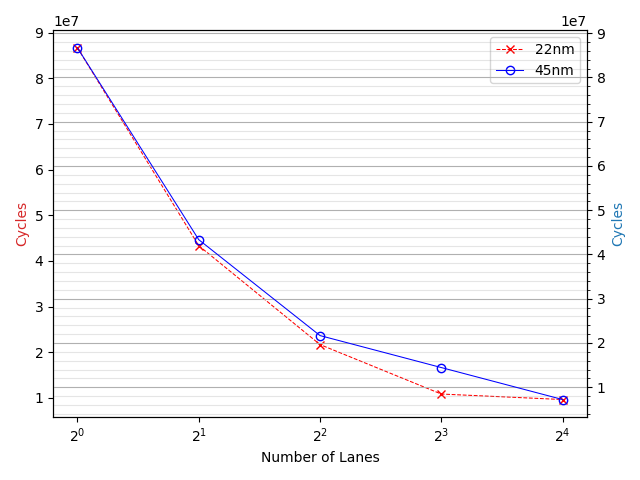
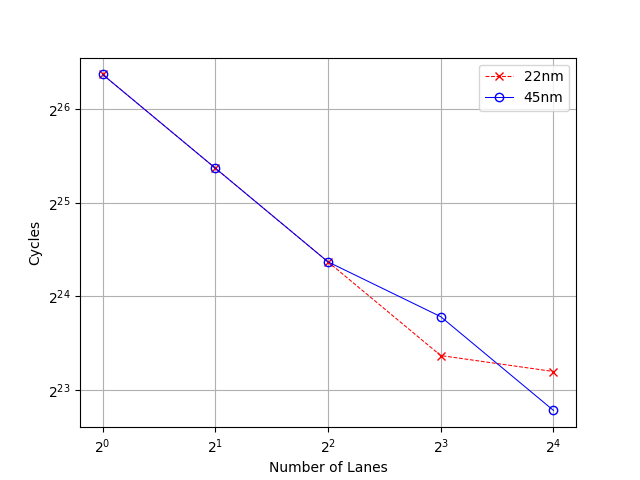
cycles and util graphs updated

Changed region(s): [[0.0312, 0.0312, 0.9688, 1.0]]

diff --git a/src/graphs.py b/src/graphs.py
@@ -1,5 +1,6 @@
 import os
 import re
+import matplotlib
 import matplotlib.pyplot as plt
 
 
@@ -64,32 +65,21 @@ ax1.legend(lns, labs, loc='best')
 
 fig.tight_layout()  # otherwise the right y-label is slightly clipped
 plt.savefig('tex_intermediate/fig/energy.png')
-
+plt.close()
 
 # Cycles
-fig, ax1 = plt.subplots()
-
-color = 'tab:red'
+plt.plot(num_lanes_list, tot_cycles[22], 'rx--', linewidth=0.75, fillstyle='none')
+plt.plot(num_lanes_list, tot_cycles[45], 'bo-', linewidth=0.75, fillstyle='none')
+plt.legend(['22nm', '45nm'])
+plt.ylabel('Cycles')
+plt.xlabel('Number of Lanes')
 plt.xscale('log',basex=2)
-ax1.set_xlabel('Number of Lanes')
-ax1.set_ylabel('Cycles', color=color)
-lns1 = ax1.plot(num_lanes_list, tot_cycles[22], 'rx--', linewidth=0.75, fillstyle='none', label='22nm')
-
-ax2 = ax1.twinx()  # instantiate a second axes that shares the same x-axis
-color = 'tab:blue'
-ax2.set_ylabel('Cycles', color=color)  # we already handled the x-label with ax1
-lns2 = ax2.plot(num_lanes_list, tot_cycles[45], 'bo-', linewidth=0.75, fillstyle='none', label='45nm')
-
+plt.yscale('log',basey=2)
 plt.grid()
 plt.minorticks_on()
 plt.grid(visible=True, which='minor', color='#999999', linestyle='-', alpha=0.25)
-
-lns = lns1+lns2
-labs = [l.get_label() for l in lns]
-ax1.legend(lns, labs, loc='best')
-
-fig.tight_layout()  # otherwise the right y-label is slightly clipped
 plt.savefig('tex_intermediate/fig/cycles.png')
+plt.close()
 
 
 # Area
@@ -116,28 +106,19 @@ ax1.legend(lns, labs, loc='upper left')
 
 fig.tight_layout()  # otherwise the right y-label is slightly clipped
 plt.savefig('tex_intermediate/fig/area.png')
-
+plt.close()
 
 # Utilization
-fig, ax1 = plt.subplots()
-
-color = 'tab:red'
+plt.plot(num_lanes_list, tot_util[22], 'rx--', linewidth=0.75, fillstyle='none')
+plt.plot(num_lanes_list, tot_util[45], 'bo-', linewidth=0.75, fillstyle='none')
+ax = plt.gca()
+ax.set_ylim([0, 1.1])
+plt.legend(['22nm', '45nm'])
+plt.ylabel('Utilization %')
+plt.xlabel('Number of Lanes')
 plt.xscale('log',basex=2)
-ax1.set_xlabel('Number of Lanes')
-ax1.set_ylabel('Utilization %', color=color)
-lns1 = ax1.plot(num_lanes_list, tot_util[22], 'rx--', linewidth=0.75, fillstyle='none', label='22nm')
-
-ax2 = ax1.twinx()  # instantiate a second axes that shares the same x-axis
-color = 'tab:blue'
-ax2.set_ylabel('Utilization %', color=color)  # we already handled the x-label with ax1
-lns2 = ax2.plot(num_lanes_list, tot_util[45], 'bo-', linewidth=0.75, fillstyle='none', label='45nm')
-
 plt.grid()
 plt.minorticks_on()
 plt.grid(visible=True, which='minor', color='#999999', linestyle='-', alpha=0.25)
-
-lns = lns1+lns2
-labs = [l.get_label() for l in lns]
-ax1.legend(lns, labs, loc='best')
-fig.tight_layout()  # otherwise the right y-label is slightly clipped
 plt.savefig('tex_intermediate/fig/utilization.png')
+plt.close()
